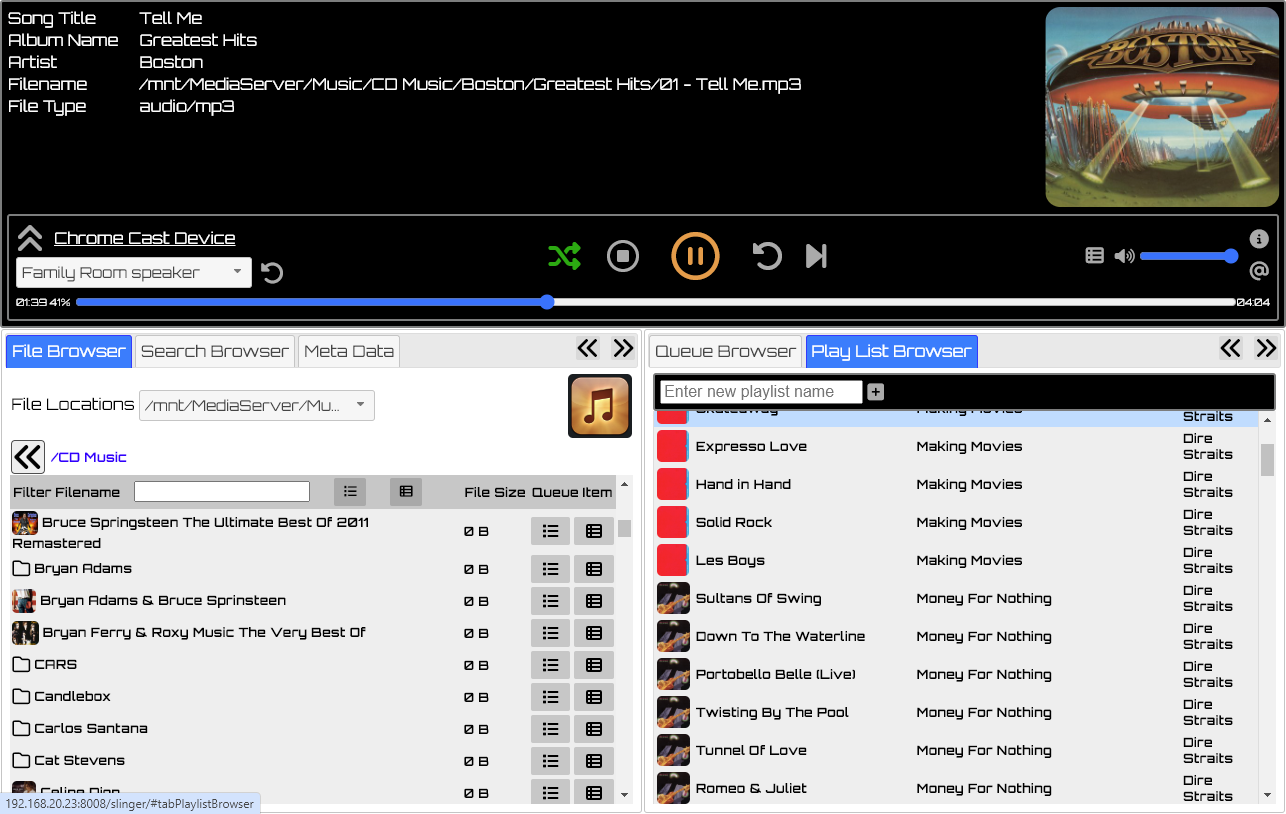
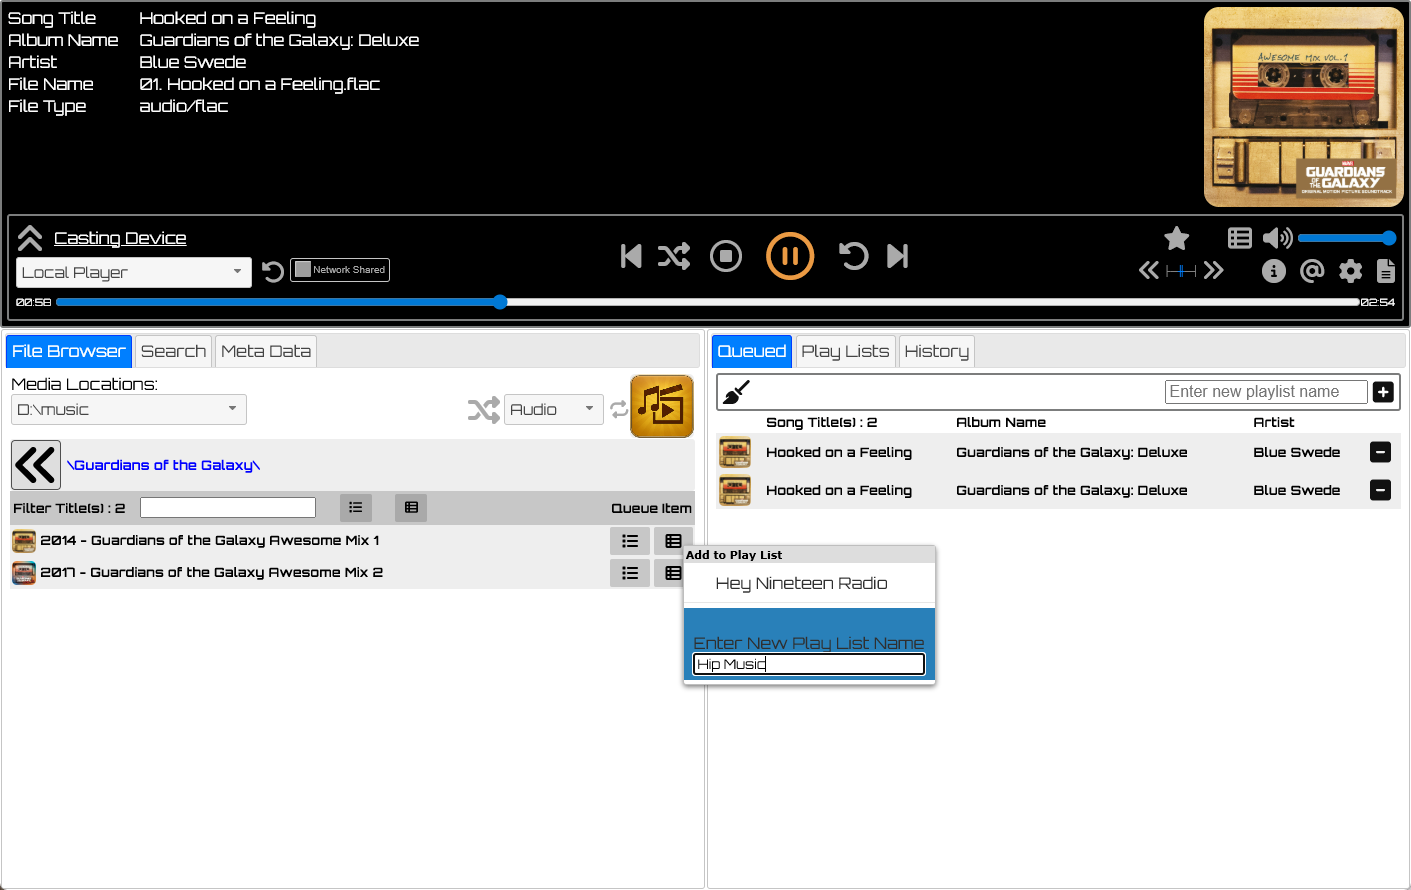
Updated readme, change GUI a little, and fixed minor history display bug

diff --git a/webapps/slinger/js/player.js b/webapps/slinger/js/player.js
@@ -271,15 +271,16 @@ function resizeFilePanels ()
 
     try{ $('#playlistBrowser').css('height', `${$(window).innerHeight() - $('#playlistBrowser').offset().top - 10}px`) } catch {}
     try{ $('#queueBrowser').css('height',    `${$(window).innerHeight() - $('#queueBrowser').offset().top    - 10}px`) } catch {}
+    try{ $('#previousQueueBrowser').css('height',    `${$(window).innerHeight() - $('#previousQueueBrowser').offset().top    - 10}px`) } catch {}
     // console.log (`{$(window).innerHeight()}  playlistBrowser:${$('#playlistBrowser').offset().top}`)
 }
 
-var TabPos  = 3;
+var TabPos  = 2;
 function tabShrinkGrow (action)
 {
     function smoothSize (destID, newWidth)
     {
-        $(destID).animate({ width: newWidth }, { duration: 800, easing: 'easeInCubic'  }  );
+        $(destID).animate({ width: newWidth }, { duration: 1800, easing: 'easeInCubic'  }  );
     }
 
     let leftChar  = "&#9500;";
@@ -290,8 +291,8 @@ function tabShrinkGrow (action)
     if (action == 'grow')
     {
         TabPos++;
-        if (TabPos >= 5)
-            TabPos = 5;
+        if (TabPos >= 3)
+            TabPos = 3;
     }
     else if (action == 'shrink')
     {
@@ -302,54 +303,28 @@ function tabShrinkGrow (action)
 
     switch (TabPos)
     {
-        case 3: // [--|--]
-            $('#tabsLeftSize').css('display', '');
-            $('#tabsLeftSize').css('width', '50%');
-            $('#tabsRightSize').css('display', '');
-            $('#tabsRightSize').css('width', '50%');
-            $('.tabsLeftShrinkGrowHideShow').css('display', '');
-            $('.tabsRightShrinkGrowHideShow').css('display', 'none');
-            $('.shrinkgrow_pos').html(`${leftChar}${dashChar}${dashChar}<b class="shrinkgrow_posidx">${indexChar}</b>${dashChar}${dashChar}${rightChar}`);
-            break;
-
-        case 2: // [-|---]
-            $('#tabsLeftSize').css('display', '');
-            $('#tabsLeftSize').css('width', '25%');
-            $('#tabsRightSize').css('display', '');
-            $('#tabsRightSize').css('width', '75%');
-            $('.tabsLeftShrinkGrowHideShow').css('display', '');
-            $('.tabsRightShrinkGrowHideShow').css('display', 'none');
-            $('.shrinkgrow_pos').html(`${leftChar}${dashChar}<b class="shrinkgrow_posidx">${indexChar}</b>${dashChar}${dashChar}${dashChar}${rightChar}`);
-            break;
-
         case 1: // [|----]
             $('#tabsLeftSize').css('display', 'None');
             $('#tabsLeftSize').css('width', '0%');
             $('#tabsRightSize').css('display', '');
             $('#tabsRightSize').css('width', '100%');
-            $('.tabsLeftShrinkGrowHideShow').css('display', 'none');
-            $('.tabsRightShrinkGrowHideShow').css('display', '');
-            $('.shrinkgrow_pos').html(`${leftChar}<b class="shrinkgrow_posidx">${indexChar}</b>${dashChar}${dashChar}${dashChar}${dashChar}${rightChar}`);
+            $('.shrinkgrow_pos').html(`${leftChar}<b class="shrinkgrow_posidx">${indexChar}</b>${dashChar}${dashChar}${rightChar}`);
             break;
 
-        case 4: // [---|-]
+        case 2: // [--|--]
             $('#tabsLeftSize').css('display', '');
-            $('#tabsLeftSize').css('width', '75%');
+            $('#tabsLeftSize').css('width', '50%');
             $('#tabsRightSize').css('display', '');
-            $('#tabsRightSize').css('width', '25%');
-            $('.tabsLeftShrinkGrowHideShow').css('display', '');
-            $('.tabsRightShrinkGrowHideShow').css('display', 'none');
-            $('.shrinkgrow_pos').html(`${leftChar}${dashChar}${dashChar}${dashChar}<b class="shrinkgrow_posidx">${indexChar}</b>${dashChar}${rightChar}`);
+            $('#tabsRightSize').css('width', '50%');
+            $('.shrinkgrow_pos').html(`${leftChar}${dashChar}<b class="shrinkgrow_posidx">${indexChar}</b>${dashChar}${rightChar}`);
             break;
 
-        case 5: // [----|]
+        case 3: // [----|]
             $('#tabsLeftSize').css('display', '');
             $('#tabsLeftSize').css('width', '100%');
             $('#tabsRightSize').css('display', 'None');
             $('#tabsRightSize').css('width', '0%');
-            $('.tabsLeftShrinkGrowHideShow').css('display', '');
-            $('.tabsRightShrinkGrowHideShow').css('display', 'none');
-            $('.shrinkgrow_pos').html(`${leftChar}${dashChar}${dashChar}${dashChar}${dashChar}<b class="shrinkgrow_posidx">${indexChar}</b>${rightChar}`);
+            $('.shrinkgrow_pos').html(`${leftChar}${dashChar}${dashChar}<b class="shrinkgrow_posidx">${indexChar}</b>${rightChar}`);
             break;
     }
 }
@@ -2914,5 +2889,8 @@ $( document ).ready(function()
     changeViewSmallBig((localStorage.getItem('G_PlayerViewMode') == 'true'));
     LoadUniqueLocalPlayerID ();
     GetChromeCastDevices ();
+
+    // Set default toast position
+    $.toast({ position: 'top-left' }).reset();
 });
 

diff --git a/webapps/slinger/css/player_styles.css b/webapps/slinger/css/player_styles.css
@@ -399,7 +399,7 @@ a:hover, a:focus {
 }
 /* ------------------------------------------------------- */
 
-.tabsLeftShrinkGrow {
+.tabsShrinkGrow {
     position: absolute;
     top: 5px;
     right: 5px;
@@ -408,29 +408,18 @@ a:hover, a:focus {
     display:inline-block;
     white-space:nowrap;
 }
-.tabsLeftShrinkGrow i {
+.tabsShrinkGrow i {
     border-radius:2px;
 }
 
 .shrinkgrow_pos {
     font-size: x-small;
+    color:grey;
 }
 
 .shrinkgrow_posidx {
     font-weight: 1000;
     color: #007FFF;
-}
-
-.tabsRightShrinkGrow  {
-    position: absolute;
-    top: 5px;
-    right: 5px;
-    font-size: x-large;
-    display:inline-block;
-    white-space:nowrap;
-}
-.tabsRightShrinkGrow i {
-    border-radius:2px;
 }
 
 /* menu header */
@@ -470,6 +459,15 @@ a:hover, a:focus {
     width: 100%;
 	min-height: 265px;
 }
+
+#previousQueueBrowser {
+    display: inline-block;
+    /* height: 400px; */
+    overflow-y: auto;
+    width: 100%;
+	min-height: 265px;
+}
+
 /* --------------------------------------------- */
 
 #playlistBrowserControls {

diff --git a/webapps/slinger/index.py b/webapps/slinger/index.py
@@ -103,7 +103,7 @@ var G_Generated_Local_Player_UniqueID = "";
     <div id="playerControls" class="rcorners1">
     <table border=0 style="width:100%">        
         <tr>
-            <td style="">
+            <td style="width:fit-content">
                 <table>
                 <tr>
                     <td class="playerTxt">
@@ -182,7 +182,7 @@ var G_Generated_Local_Player_UniqueID = "";
                 <td style="width:50%"></td>
                 </tr></table>                
             </td>                        
-            <td style="">
+            <td style="width:fit-content">
                 <table style="min-width:50px;max-width:40px;float:right;" border=0>
                 <tr>
                     <td style="padding-right:10px;white-space:nowrap;text-align:center">
@@ -195,8 +195,24 @@ var G_Generated_Local_Player_UniqueID = "";
                     <td class="playerTxt" style="width:100%;min-width:100px"><input type="range" min="1" max="100" value="50" id="volLevel" oninput="chromeCastBasicAction($('#ccast_uuid').val(), 'volume', ($(this).val()/100.0))"></td>
                 </tr>
                 <tr><td style="height:5px"></td></tr>
-                <tr>                    
-                    <td colspan="100%" style="text-align:right">
+                <tr>     
+                    <td>
+                        <table class="tabsShrinkGrowHideShow" title="Expand/Contract Navigation">
+                        <tr>
+                            <td>
+                                <i class="playerControls fa-solid fa-angles-left selectItemHand" onclick="tabShrinkGrow('shrink');"></i>
+                            </td>     
+                            <td class="shrinkgrow_pos"></td>                       
+                            <td>
+                                <i class="playerControls fa-solid fa-angles-right selectItemHand" onclick="tabShrinkGrow('grow');"></i>
+                            </td>   
+                        </tr>
+                        <tr>
+                            <td colspan="100%"><font style="display: none; white-space: nowrap;" class="showHelpText controlsIconFont">Expand/Contract Navigation</font></td>
+                        </tr>
+                        </table>                     
+                    </td>               
+                    <td colspan="100%" style="text-align:right; white-space:nowrap;">
                         <i id="showHelpTextInfo" onclick="showHideIconInfo(! G_ShowHideIconInfo)" class="playerControls fa-solid fa-circle-info" style="text-align:center" title="Icon Info On/Off">
                             <font style="display: none;" class="showHelpText controlsIconFont">This text info</font>
                         </i>                                                   
@@ -253,7 +269,7 @@ output (f"""
     <div id="tabsLeft">
         <ul>
             <li><a id="tabFileBrowserSelect" href="#tabFileBrowser">File Browser</a></li>
-            <li><a href="#tabSearchBrowser">Search Browser</a></li>
+            <li><a href="#tabSearchBrowser">Search</a></li>
             <li><a href="#tabMetaData">Meta Data</a></li>
         </ul>
         
@@ -262,12 +278,13 @@ output (f"""
                 <table style="width:100%" border=0>
                 <tr>
                     <td style="width:100%;text-align:left;vertical-align: top;">       
-                        <label for="shareLocs">File Locations<br></label>
+                        <label for="shareLocs">Media Locations:<br></label>
                         <select name="shareLocs" id="share_locs"  onchange="OnChange_FileLocation(this)">
                         { shareLocs }
                         </select>
                     </td>     
                     <td style="white-space:nowrap;text-align:right;vertical-align:top">
+                        <label>&nbsp;<br></label>
                         <i id="metaDataShuffle" class="inlinePlayListControls cntrlInactive fa-solid fa-shuffle" style="font-size: xx-large; text-align: center;" title="MetaData Shuffle On/Off" onclick="chromeCastMetaDataShuffle($('#ccast_uuid').val())"><br><font style="display:none" class="showHelpText controlsIconFont">MetaData Shuffle<br>On/Off</font></i>                       
                         <select id="shuffleMetaFileType"  onchange="" value="audio" class="inlinePlayMode">
                             <option value="audio">Audio</option>
@@ -283,17 +300,6 @@ output (f"""
                         
                         <div id="metaDataShuffleActivePath" style="font-size:x-small"></div>                                                                       
                     </td>               
-                    <td>
-                        <table class="tabsLeftShrinkGrowHideShow tabsLeftShrinkGrow"><tr>
-                            <td>
-                                <i class="fa-solid fa-angles-left selectItemHand" onclick="tabShrinkGrow('shrink');"></i>
-                            </td>     
-                            <td class="shrinkgrow_pos"></td>                       
-                            <td>
-                                <i class=" fa-solid fa-angles-right selectItemHand" onclick="tabShrinkGrow('grow');"></i>
-                            </td>   
-                        </tr></table>                          
-                    </td>
                     <td>
                         <span id="browserArt"><img src="img/folder.png"></span>
                     </td>                    
@@ -336,17 +342,6 @@ output (f"""
                           </fieldset>                    
                     </div>                    
                 </td>
-                <td>
-                    <table class="tabsLeftShrinkGrowHideShow tabsLeftShrinkGrow"><tr>
-                        <td>
-                            <i class=" fa-solid fa-angles-left selectItemHand" onclick="tabShrinkGrow('shrink');"></i>
-                        </td>                    
-                        <td class="shrinkgrow_pos"></td>         
-                        <td>
-                            <i class=" fa-solid fa-angles-right selectItemHand" onclick="tabShrinkGrow('grow');"></i>
-                        </td>   
-                    </tr></table>                          
-                </td>
             </tr></table> 
             <div id="searchList" style="width:100%"></div>                         
         </div>
@@ -385,20 +380,7 @@ output (f"""
                 <tr><td>&nbsp;</td></tr>
                                
                 <tr><th colspan="100%">Meta Data Scraping Status</th></tr>
-                <tr><td id="metadataScrapeStatus" colspan="100%"></td></tr>
-                <tr>
-                    <td>
-                        <table class="tabsLeftShrinkGrowHideShow tabsLeftShrinkGrow" border=0><tr>
-                            <td>
-                                <i class=" fa-solid fa-angles-left selectItemHand" onclick="tabShrinkGrow('shrink');"></i>
-                            </td>
-                            <td class="shrinkgrow_pos"></td>                             
-                            <td>
-                                <i class=" fa-solid fa-angles-right selectItemHand" onclick="tabShrinkGrow('grow');"></i>
-                            </td>   
-                        </tr></table>                          
-                    </td>
-                </tr>               
+                <tr><td id="metadataScrapeStatus" colspan="100%"></td></tr>           
                 
                 <tr><td>&nbsp;</td></tr>
                 
@@ -425,9 +407,9 @@ output (f"""
 <td id="tabsRightSize" style="width:50%;vertical-align:top">
     <div id="tabsRight">
         <ul>
-            <li><a id="tabQueueBrowserSelect"          href="#tabQueueBrowser">Queue Browser</a></li>
-            <li><a id="tabPlaylistBrowserSelect"       href="#tabPlaylistBrowser">Play List Browser</a></li>
-            <li><a id="tabPreviousQueueBrowserSelect"  href="#tabPreviousQueueBrowser">History Browser</a></li>
+            <li><a id="tabQueueBrowserSelect"          href="#tabQueueBrowser">Queued</a></li>
+            <li><a id="tabPlaylistBrowserSelect"       href="#tabPlaylistBrowser">Play Lists</a></li>
+            <li><a id="tabPreviousQueueBrowserSelect"  href="#tabPreviousQueueBrowser">History</a></li>
         </ul>
         
         <!- ==== Queue Browser Tab Content ==== -->
@@ -451,17 +433,6 @@ output (f"""
                     </tr>
                 </table>
             </div>         
-            <div>
-                <table class="tabsRightShrinkGrowHideShow tabsRightShrinkGrow"><tr>
-                    <td>
-                        <i class=" fa-solid fa-angles-left selectItemHand" onclick="tabShrinkGrow('shrink');"></i>
-                    </td>
-                    <td class="shrinkgrow_pos"></td>                             
-                    <td>
-                        <i class=" fa-solid fa-angles-right selectItemHand" onclick="tabShrinkGrow('grow');"></i>
-                    </td>   
-                </tr></table>                          
-            </div>
             <div id="queueBrowser"></div>
         </div>
         
@@ -475,18 +446,7 @@ output (f"""
                             <i class="inlinePlayListControls  fa-solid fa-square-plus" style="text-align:center;" title="Create Playlist" onclick="CreatePlayList($('#newPlayListName').val())"><br><font class=" showHelpText  controlsIconFont">Create Playlist</font></i>
                     </td>                                            
                 </tr></table>
-            </div>           
-            <div>
-                <table class="tabsRightShrinkGrowHideShow tabsRightShrinkGrow"><tr>
-                    <td>
-                        <i class=" fa-solid fa-angles-left selectItemHand" onclick="tabShrinkGrow('shrink');"></i>
-                    </td>
-                    <td class="shrinkgrow_pos"></td>                             
-                    <td>
-                        <i class=" fa-solid fa-angles-right selectItemHand" onclick="tabShrinkGrow('grow');"></i>
-                    </td>   
-                </tr></table>                          
-            </div>                            
+            </div>                                     
             <div id="playlistBrowser"></div>      
         </div>
         
@@ -511,17 +471,6 @@ output (f"""
                     </tr>
                 </table>
             </div>         
-            <div>
-                <table class="tabsRightShrinkGrowHideShow tabsRightShrinkGrow"><tr>
-                    <td>
-                        <i class=" fa-solid fa-angles-left selectItemHand" onclick="tabShrinkGrow('shrink');"></i>
-                    </td>
-                    <td class="shrinkgrow_pos"></td>                             
-                    <td>
-                        <i class=" fa-solid fa-angles-right selectItemHand" onclick="tabShrinkGrow('grow');"></i>
-                    </td>   
-                </tr></table>                          
-            </div>
             <div id="previousQueueBrowser"></div>
         </div>         
 

diff --git a/README.md b/README.md
@@ -6,6 +6,12 @@ I has the ability to cast from remote CIFS/Windows file shares as well as local 
 This service will run as a Daemon, monitoring Chrome Cast devices, and sling/cast audio, video files 
 to devices from its pending queue.
 
+## Version 0.08 Work in progress:
+ * Added history played music viewer, and the ability to play the previous tracks.
+ * Added live searching of metadata
+ * Fixed displaying of album art issues between http(s) protocols.
+ * Cosmetic GUI Changes
+
 ## Version 0.075 Work in progress:
  * Debugged HTTP Range requests further and hopefully fix it finally.
  * Identified my DLNA issue with Metadata and Samsung T.Vs. Basically the dislike the source URL with ?query=1234 type 
@@ -156,6 +162,12 @@ update to ip address of 0.0.0.0
 
     SEARCH_RESULT_LIMIT=1000
 
+    # Set the max concurrent downloads for accessfile.py
+    MAX_CONCURRENT_DOWNLOADS=20
+
+    # Max queue history
+    MAX_PREVIOUS_PLAYED_QUEUE_LENGTH=50   
+    
     # Scraper Schedular
     # Time to scrape in cron format
     # * * * * *
